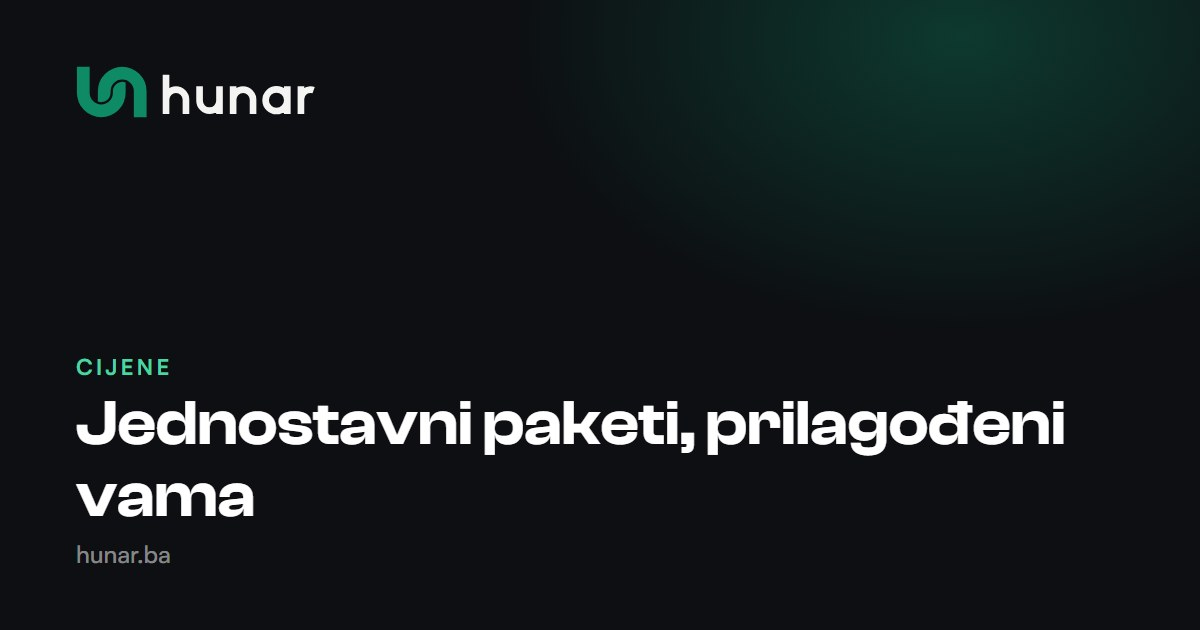
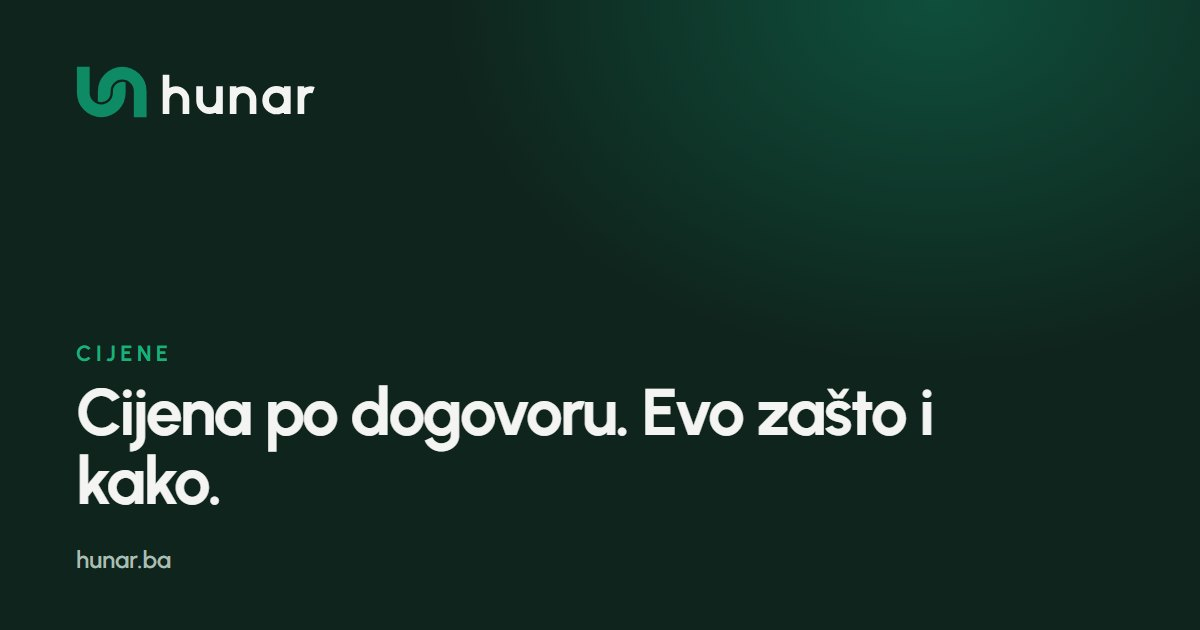
OG slike u novom izgledu (Usluge, Cijene, Kontakt i engleske), llms.txt i JSON-LD sa osam usluga, engleski meni na /en

Changed region(s): [[0.4008, 0.0, 0.925, 0.5429], [0.0617, 0.5429, 0.8942, 0.8444], [0.0617, 0.8444, 0.1542, 0.9048]]

diff --git a/scripts/og/og.html b/scripts/og/og.html
@@ -3,24 +3,26 @@
 <head>
   <meta charset="utf-8" />
   <!-- Šablon za OG slike 1200x630. Tekst ide kroz ?eyebrow=...&title=..., snima se gstack browseom. -->
-  <link href="https://api.fontshare.com/v2/css?f[]=clash-display@600&f[]=satoshi@500,700&display=swap" rel="stylesheet" />
+  <!-- Izgled "Kroz znak": Urbanist iz projekta, tamnozelena pozadina sa smaragdnim sjajem. -->
   <style>
-    html, body { margin: 0; background: #0b0d10; }
+    @font-face { font-family: 'Urbanist Variable'; font-weight: 100 900; src: url('../../node_modules/@fontsource-variable/urbanist/files/urbanist-latin-wght-normal.woff2') format('woff2'); unicode-range: U+0000-00FF, U+0131, U+0152-0153, U+02BB-02BC, U+02C6, U+02DA, U+02DC, U+2000-206F, U+20AC, U+2122, U+2191, U+2193, U+2212, U+2215, U+FEFF, U+FFFD; }
+    @font-face { font-family: 'Urbanist Variable'; font-weight: 100 900; src: url('../../node_modules/@fontsource-variable/urbanist/files/urbanist-latin-ext-wght-normal.woff2') format('woff2'); unicode-range: U+0100-02BA, U+02BD-02C5, U+02C7-02CC, U+02CE-02D7, U+02DD-02FF, U+0304, U+0308, U+0329, U+1D00-1DBF, U+1E00-1E9F, U+1EF2-1EFF, U+2020, U+20A0-20AB, U+20AD-20C0, U+2113, U+2C60-2C7F, U+A720-A7FF; }
+    html, body { margin: 0; background: #0f241d; }
     #og {
       position: relative; width: 1200px; height: 630px; overflow: hidden;
-      background: radial-gradient(640px 420px at 80% 6%, rgba(14, 138, 100, 0.34), transparent 70%), #0d0f12;
-      color: #fff; font-family: Satoshi, sans-serif;
+      background: radial-gradient(700px 520px at 78% 0%, rgba(14, 138, 100, 0.42), transparent 70%), #0f241d;
+      color: #f4f4f2; font-family: 'Urbanist Variable', sans-serif; -webkit-font-smoothing: antialiased;
     }
     #logo { position: absolute; left: 76px; top: 66px; height: 52px; }
     #eyebrow {
-      position: absolute; left: 76px; top: 352px; font-weight: 700; font-size: 22px;
-      letter-spacing: 0.14em; text-transform: uppercase; color: #4dd4a4;
+      position: absolute; left: 76px; top: 340px; font-weight: 700; font-size: 22px;
+      letter-spacing: 0.2em; text-transform: uppercase; color: #19b07e;
     }
     #title {
-      position: absolute; left: 76px; right: 120px; top: 388px; margin: 0;
-      font-family: 'Clash Display', sans-serif; font-weight: 600; font-size: 64px; line-height: 1.12;
+      position: absolute; left: 76px; right: 110px; top: 378px; margin: 0;
+      font-weight: 700; font-size: 66px; line-height: 1.04; letter-spacing: -0.035em;
     }
-    #domain { position: absolute; left: 76px; bottom: 60px; font-size: 24px; color: rgba(255, 255, 255, 0.5); }
+    #domain { position: absolute; left: 76px; bottom: 56px; font-size: 24px; font-weight: 600; color: #a9bdb4; }
   </style>
 </head>
 <body>

diff --git a/src/components/JsonLd.jsx b/src/components/JsonLd.jsx
@@ -42,6 +42,10 @@ const organizacija = {
     'Online zakazivanje termina',
     'B2B portal za veleprodaju',
     'Brzina web stranica',
+    'SEO optimizacija',
+    'AI chatbot za web stranicu',
+    'Mobilne aplikacije',
+    'Redizajn web stranica',
   ],
   hasOfferCatalog: {
     '@type': 'OfferCatalog',
@@ -53,6 +57,10 @@ const organizacija = {
       ['Uvoz artikala od dobavljača', 'Uvoz kataloga, cijena, zaliha, slika i barkodova od više dobavljača.', '/savjeti/uvoz-artikala-od-dobavljaca'],
       ['Online zakazivanje termina', 'Zakazivanje usluga direktno na stranici.', '/savjeti/online-zakazivanje-termina'],
       ['B2B portal za veleprodaju', 'Poseban ulaz za partnere sa veleprodajnim cijenama i narudžbenicom.', '/radovi/mrt'],
+      ['SEO optimizacija', 'Brzina, naslovi i opisi, strukturirani podaci i Google Search Console.', '/usluge'],
+      ['AI chatbot', 'Asistent na stranici koji odgovara kupcima, kao Kobi na mrt.ba.', '/usluge'],
+      ['Mobilne aplikacije', 'Aplikacije za Android i iPhone, za kupce ili za tim.', '/usluge'],
+      ['Redizajn web stranica', 'Nova stranica umjesto stare, sa novim dizajnom, brzinom i tekstom.', '/usluge'],
       ['Hosting i održavanje', 'Hosting, keš, sigurnosne kopije i izmjene.', '/usluge'],
     ].map(([name, description, path]) => ({
       '@type': 'Offer',

diff --git a/src/pocetna.en.js b/src/pocetna.en.js
@@ -9,10 +9,11 @@ export const put = '/en'
 export const whatsappPoruka = 'Hi, I run a company and I am interested in a website. Can we talk?'
 export const whatsappLink = `${contact.whatsapp}?text=${encodeURIComponent(whatsappPoruka)}`
 
-// The other pages are still Bosnian only, so the English menu stays on this page.
+// English pages that exist so far; the rest get English when they get the new design.
 export const meni = [
-  { naziv: 'Services', put: '#ponuda' },
-  { naziv: 'Contact', put: `mailto:${contact.email}` },
+  { naziv: 'Services', put: '/en/services' },
+  { naziv: 'Pricing', put: '/en/pricing' },
+  { naziv: 'Contact', put: '/en/contact' },
 ]
 
 export const drugiJezik = { oznaka: 'BS', naziv: 'Bosanski', jezik: 'bs', put: '/' }
